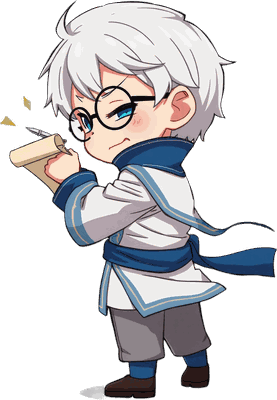
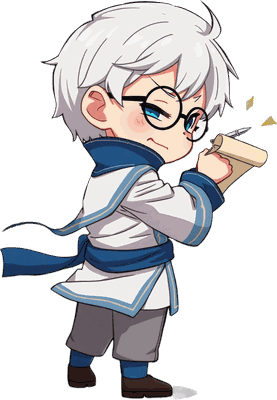
v0.70.0: 学士と紅蓮を反転 + 紅蓮の衣装を足首丈にして脚を隠す
報告: 「紅蓮と学士が左右逆、視線は敵の方を見るように」「紅蓮の足が長すぎる」

・学士と紅蓮を左右反転。6体とも右(敵の方)を向いた
・紅蓮の脚は膝丈のコートでは隠れきらなかったので、足首まで届く丈に変えた。
  他の5人と同じ「裾で脚が隠れる」輪郭になり、1人だけ脚長に見えなくなった
・種は7つ試して、足首丈・顔が45度・両目の幅が平均(35.0%)に近いものを選んだ
・測定は減色の前に統一。前回は減色後の値で倍率を決めていて、
  学士が 43.2% → 31.8% と大きく食い違っていた

diff --git a/shared/characters.ts b/shared/characters.ts
@@ -40,18 +40,18 @@ export const CHAR_CHANGE_COST = 200;
 //   ±8%までに抑え、頭を揃えきるより背丈の自然さを優先する。
 //   帽子や髭のある子は測定値そのものが当てにならない(紫紺は測ると1.37倍
 //   必要と出るが、そのとおりにすると1人だけ見上げるほど大きくなる)。
-// 測定値(両目の幅 / 全身の高さ): 35.5% / 43.2% / 31.2% / 39.8% / 27.5% / 43.5%(平均 36.8%)
+// 測定値(両目の幅 / 全身の高さ): 35.5% / 31.8% / 32.0% / 39.8% / 27.5% / 43.5%(平均 35.0%)
 export const CHARACTERS: CharacterDef[] = [
   { id: 0, name: '黒金の魔女', note: '雷を操り、魔導書に真理を読む',
-    element: 'thunder', scale: 1.03 },
+    element: 'thunder', scale: 1.00 },
   { id: 1, name: '白銀の学士', note: '風を読み、記録と観測を重んじる',
-    element: 'wind', scale: 0.90 },
+    element: 'wind', scale: 1.08 },
   { id: 2, name: '紅蓮の戦導士', note: '炎を纏い、前へ出て杖を振るう',
-    element: 'fire', scale: 1.05 },
+    element: 'fire', scale: 1.08 },
   { id: 3, name: '翠緑の薬導士', note: '水を扱い、調合と薬に通じた癒し手',
-    element: 'water', scale: 0.95 },
+    element: 'water', scale: 0.92 },
   { id: 4, name: '紫紺の導師', note: '大地を鎮める、古き術の大魔導士',
-    element: 'earth', scale: 1.05 },
+    element: 'earth', scale: 1.10 },
   { id: 5, name: '蒼氷の術士', note: '氷を結び、静けさの中で術を編む',
     element: 'ice', scale: 0.90 },
 ];

diff --git a/shared/version.ts b/shared/version.ts
@@ -4,6 +4,6 @@
 // BUILD_DATE は npm run build のたびに tools/stamp-version.mjs が
 // 実際の時刻(日本時間)で書き換えるので、手で触らないこと。
 
-export const VERSION = '0.69.0';
-export const BUILD_DATE = '2026-08-07 07:14';
+export const VERSION = '0.70.0';
+export const BUILD_DATE = '2026-08-07 07:23';
 export const COPYRIGHT = 'Copyright © 2026 YuriPapa';
